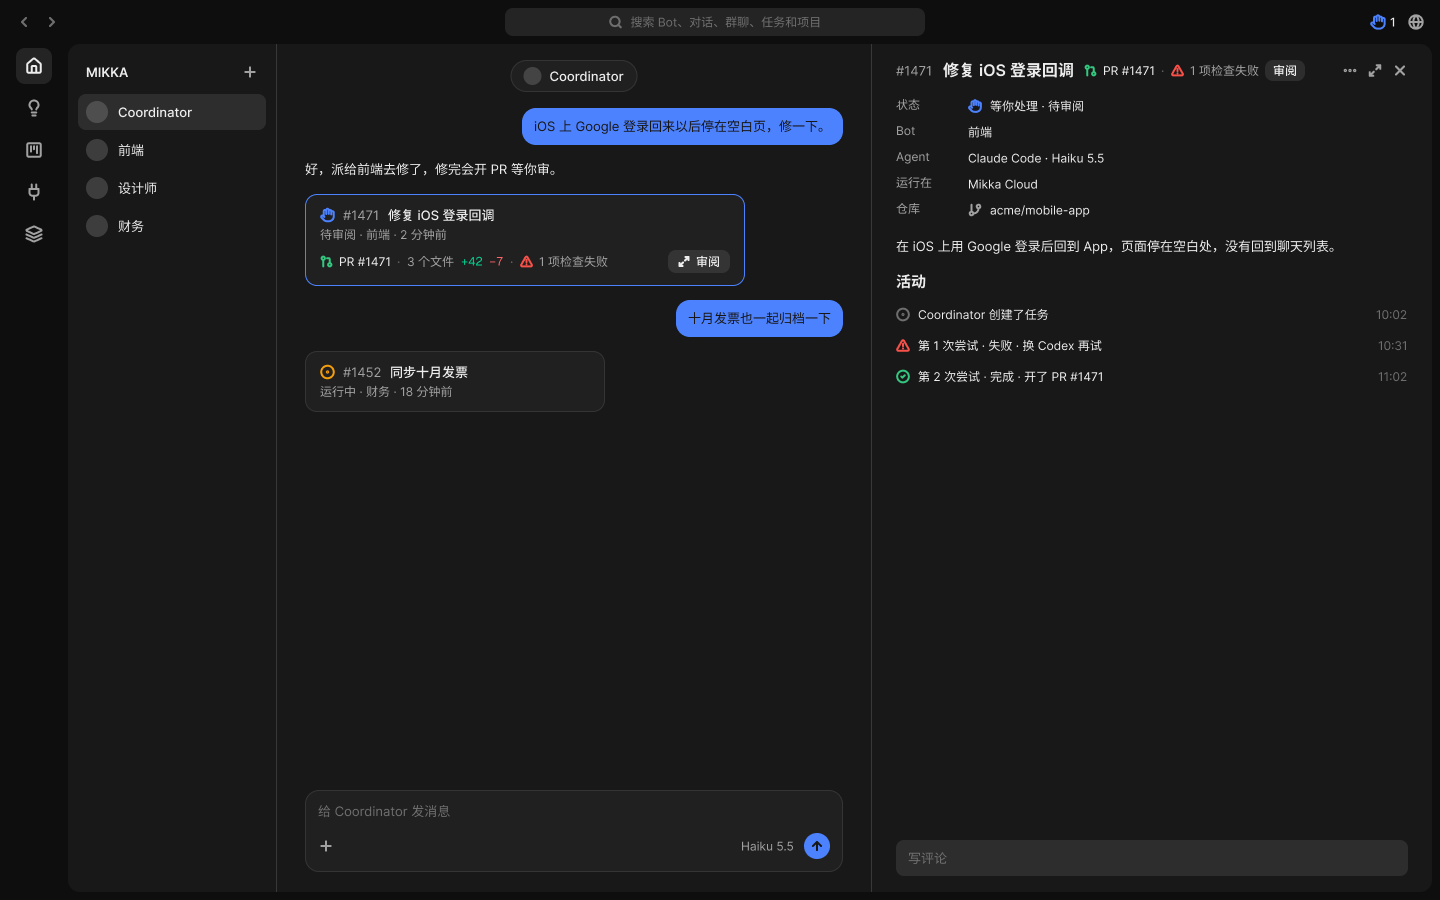
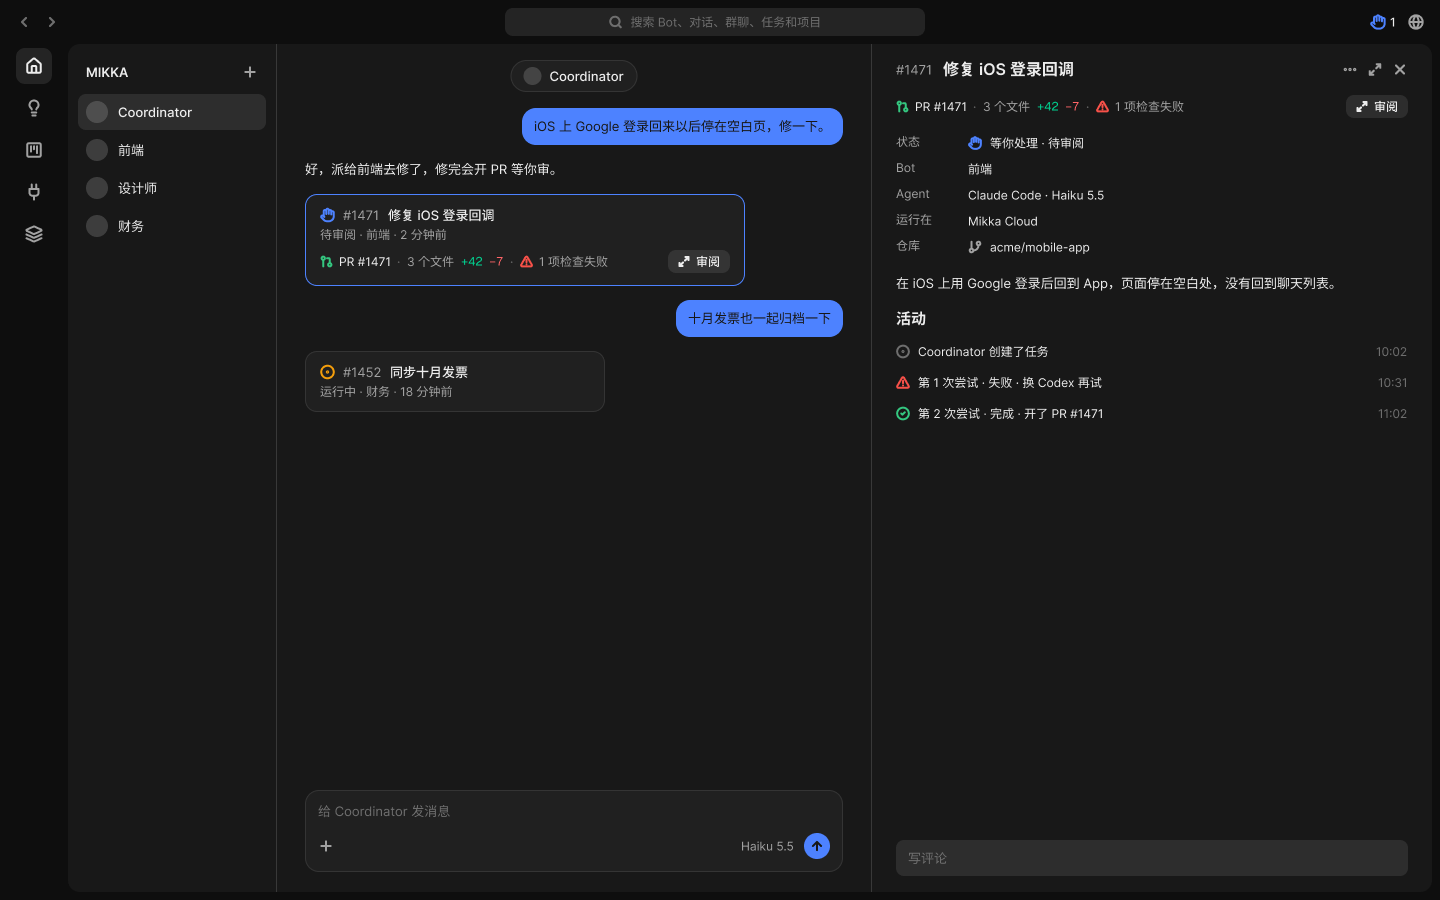
docs(research): R0b 摘要行移到标题正下方
- 顶行：#1471 · 标题 · ⋯ ⤢ ✕
- 下一行（属性之上）：PR #1471 · 3 个文件 +42 −7 · ⚠ 1 项检查失败 · 审阅
- 重新导出 R0b 的浅色和深色并核对

Claude-Session: https://claude.ai/code/session_01XDndLThEHgcdfvzQakrYDT

Changed region(s): [[0.625, 0.0622, 0.9375, 0.28], [0.625, 0.3111, 0.9375, 0.4667], [0.9375, 0.0933, 0.9688, 0.1244]]

diff --git a/docs/design/decisions/2026-11-08-1230-coding-workspace.md b/docs/design/decisions/2026-11-08-1230-coding-workspace.md
@@ -31,7 +31,7 @@ The frames are a structure sketch, not a visual spec. They are on Figma `zPe5LKy
 | Frame | What it fixes | Light | Dark |
 |---|---|---|---|
 | R0 入口 | The chat's task card and the window bar's 等待你 list show one line, 「PR #1471 · 3 个文件 +42 −7 · ⚠ 1 项检查失败」, with 「审阅」. One click opens R1. The list's footer shows ⌘⇧B and ⌘K 「审阅 #1471」. | `1120:2` | `1120:227` |
-| R0b 任务面板 | The task detail keeps its current shape. Its top row holds the title, then 「PR #1471 · ⚠ 1 项检查失败 · 审阅」, then ⋯ ⤢ ✕ on the right; the branch name moves into ⋯. Attempts appear only in 活动: 第 1 次尝试 · 失败 · 换 Codex 再试 → 第 2 次尝试 · 完成 · 开了 PR #1471. | `1120:432` | `1120:664` |
+| R0b 任务面板 | The task detail keeps its current shape. Its top row is #1471 · title · ⋯ ⤢ ✕. The first row under it, above 状态 / Bot / Agent, is 「PR #1471 · 3 个文件 +42 −7 · ⚠ 1 项检查失败」 with 「审阅」. Secondary actions and the branch name are in ⋯. Attempts appear only in 活动: 第 1 次尝试 · 失败 · 换 Codex 再试 → 第 2 次尝试 · 完成 · 开了 PR #1471. | `1120:432` | `1120:664` |
 | R1 审阅页 | One full page, described below. | `1120:869` | `1120:1231` |
 | R1b 检查展开 | The check summary expands in place: the failing check with a log excerpt, 查看完整日志 and 附到评论; the passing checks in one row. | `1120:1542` | `1120:1895` |
 | R2 iPhone 审阅 | Opened in one tap from the chat card's summary line. Under one centred title, the first row is the check summary (tap to expand) with 要求修改 / 批准合并, then the changed files, and the floating 「N 条评论 · 发给 Agent」 bar. | `1121:54` | `1121:169` |

diff --git a/docs/research/2026-11-08-coding-workspace-layout.md b/docs/research/2026-11-08-coding-workspace-layout.md
@@ -28,7 +28,7 @@
 | 提议：地球图标移出窗口栏（单独请 Alex 批准）。窗口栏只留 ⌘K 搜索和 ✋ 等待你；浏览器从 ⌘K「打开浏览器」进入 | `1123:78` | `1123:306` | [浅](assets/2026-11-08-ws-proposal-globe-out-light.png) · [深](assets/2026-11-08-ws-proposal-globe-out-dark.png) |
 
 **顶栏审计**（Alex：顶上几行有空位，却放着不重要的东西，重要的反而在下面）。每一行最上面只放最常用的东西，画布上的标注写了每个顶栏放了什么、为什么：
-- **任务面板顶行：** 标题旁同一行是「PR #1471 · ⚠ 1 项检查失败 · 审阅」，最右边是 ⋯ ⤢ ✕。分支名移进 ⋯，不再单独占一行。
+- **任务面板：** 顶行是 #1471 · 标题 · ⋯ ⤢ ✕。紧接着第一行（在状态 / Bot / Agent 之上）是「PR #1471 · 3 个文件 +42 −7 · ⚠ 1 项检查失败」加「审阅」。分支名和次要动作放在 ⋯ 里。
 - **审阅页顶栏：** 只有任务标题、检查摘要（就地展开）、要求修改 / 批准合并、⋯、✕。分支名、已看 1/3、快捷键说明都放进 ⋯ 或提示。顶栏上不写 Esc。
 - **窗口栏：** 保留 ⌘K 搜索和 ✋ 等待你计数。地球图标移出窗口栏是一项单独的提议。
 - **iPhone R2：** 一个居中标题，左侧返回，右侧最多一个按钮。第一行是检查摘要和要求修改 / 批准合并，下面直接是改动文件。
